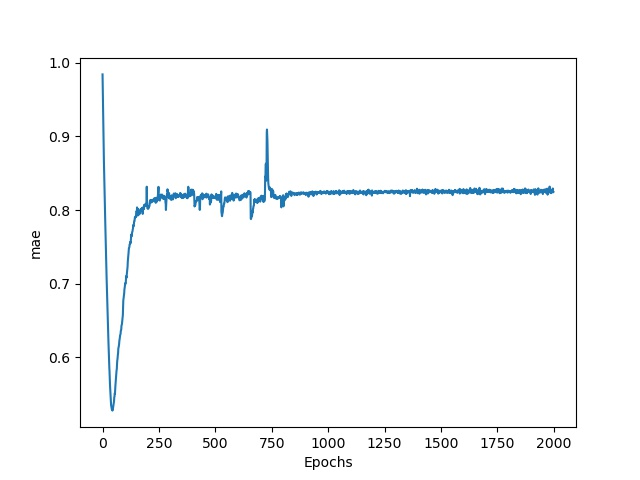
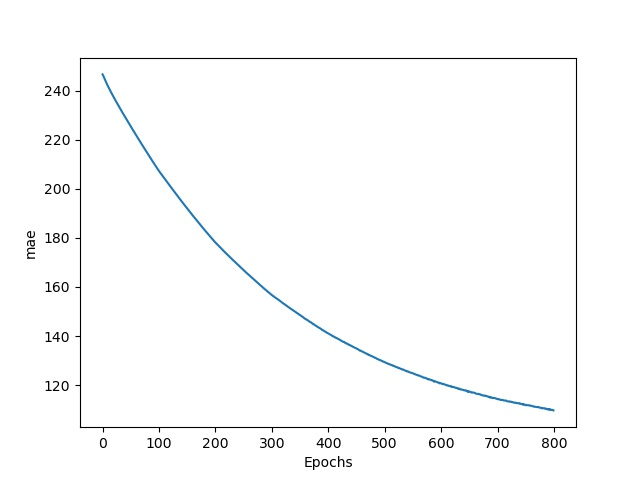
Update

diff --git a/prediction_for_lily_price_and_volume/train.py b/prediction_for_lily_price_and_volume/train.py
@@ -11,7 +11,7 @@ import matplotlib.pyplot as plt
 import os
 from sklearn.preprocessing import StandardScaler
 from torch.optim import lr_scheduler
-from sklearn.metrics import mean_absolute_percentage_error
+from sklearn.metrics import mean_absolute_percentage_error, mean_absolute_error
 
 #OMP: Error #15: Initializing libiomp5md.dll, but found libiomp5md.dll already initialized.
 os.environ["KMP_DUPLICATE_LIB_OK"]="TRUE"
@@ -23,7 +23,7 @@ if torch.cuda.is_available():
 else:
     device = torch.device('cpu')
 
-n = 10  # 取前n天的資料作為特徵
+n = 7  # 取前n天的資料作為特徵
 
 #載入資料集
 train_x = pd.read_csv(r'D:\dataset\lilium_price\train_x\105-108all.csv', encoding='utf-8')
@@ -46,19 +46,19 @@ trainset = utils.Setloader(train_x, train_y)
 valset = utils.Setloader(val_x, val_y)
 
 # train
-batch_size = 300
-val_batch_size = 300
-LR = 0.05
-num_epochs = 1000
+batch_size = 200
+val_batch_size = 200
+LR = 0.001
+num_epochs = 2000
 
 model = model.RNN_model(input_dim=train_x.shape[1], output_dim=train_y.shape[1]).to(device)
 # 選擇優化器與損失函數
 optimizer = torch.optim.AdamW(model.parameters(), lr=LR) 
 criterion = nn.MSELoss().to(device)
-scheduler = lr_scheduler.StepLR(optimizer, step_size=100, gamma=0.9)
+scheduler = lr_scheduler.StepLR(optimizer, step_size=200, gamma=0.9)
 
 trainloader = DataLoader(trainset, batch_size=batch_size, shuffle=True)
-valloader = DataLoader(valset, batch_size=val_batch_size, shuffle=None)
+valloader = DataLoader(valset, batch_size=val_batch_size, shuffle=True)
 train_epoch_size = math.ceil(len(trainloader.dataset)/batch_size)
 val_epoch_size = math.ceil(len(valloader.dataset)/val_batch_size)
 
@@ -82,7 +82,7 @@ for epoch in range(num_epochs):
             optimizer.zero_grad()  # clear gradients for this training step
             loss.backward()  # back propagation, compute gradients
             optimizer.step()
-            scheduler.step()        
+                    
             #更新進度條
             pbar.set_description('train')
             pbar.set_postfix(
@@ -102,7 +102,11 @@ for epoch in range(num_epochs):
                 inputs, target = inputs.to(device), target.to(device)
                 output = model(torch.unsqueeze(inputs, dim=0))
                 running_val_loss = criterion(torch.squeeze(output), target).item()
-                running_mae = mean_absolute_percentage_error(target.cpu(), torch.squeeze(output).cpu())
+                running_mae = mean_absolute_error(target.cpu(), torch.squeeze(output).cpu())
+                # if running_mape > 1:    #避免爆炸
+                #     print(target[70])
+                #     print(output[0][70])
+                #     running_mape = 1
                 total_val_loss += running_val_loss*inputs.shape[0]
                 total_mae += running_mae*inputs.shape[0]
                 #更新進度條
@@ -113,14 +117,15 @@ for epoch in range(num_epochs):
                             'mae': running_mae
                         })
                 pbar.update(1)
+    scheduler.step()
     val_loss = total_val_loss/len(valloader.dataset)
     mae = total_mae/len(valloader.dataset)
     val_loss_list.append(val_loss)
     mae_list.append(mae)
-    print('train_loss: {:.4f}, valid_loss: {:.4f}, mae:{:.4f}, lr:{:.1e}'.format(loss, val_loss, mae, scheduler.get_last_lr()[0]) )
+    print('train_loss: {:.4f}, valid_loss: {:.4f}, MAE:{:.2f}, lr:{:.1e}'.format(loss, val_loss, mae, scheduler.get_last_lr()[0]) )
     #每10個epochs及最後一個epoch儲存模型
-    if (not epoch % 50) or (epoch == num_epochs)  :
-        torch.save(model.state_dict(), './logs/epoch%d-loss%.4f-val_loss%.4f-mae%.4f.pth' %(epoch, loss, val_loss, mae))
+    if (not epoch % 100) or (epoch == num_epochs)  :
+        torch.save(model.state_dict(), './logs/epoch%d-loss%.4f-val_loss%.4f-mae%.2f.pth' %(epoch, loss, val_loss, mae))
 
 
 #繪製圖

diff --git a/prediction_for_lily_price_and_volume/net/model.py b/prediction_for_lily_price_and_volume/net/model.py
@@ -3,21 +3,21 @@ import torch.nn as nn
 class RNN_model(nn.Module):
     def __init__(self, input_dim, output_dim):
         super(RNN_model, self).__init__()
-        # self.dnn1 = nn.Linear(input_dim, 512)
-        # self.dnn2 = nn.Linear(512, 256)
+        self.dnn1 = nn.Linear(input_dim, 1024)
+        self.dnn2 = nn.Linear(1024, 512)
 
         self.rnn1 = nn.LSTM(
-            input_size=input_dim,
+            input_size=512,
+            hidden_size=128,
+            num_layers=2,
+            batch_first=True
+        )
+        self.rnn2 = nn.LSTM(
+            input_size=128,
             hidden_size=64,
             num_layers=2,
             batch_first=True
         )
-        # self.rnn2 = nn.LSTM(
-        #     input_size=64,
-        #     hidden_size=64,
-        #     num_layers=2,
-        #     batch_first=True
-        # )
         
         self.drop = nn.Dropout(0.5)
         self.out = nn.Sequential(
@@ -25,11 +25,10 @@ class RNN_model(nn.Module):
         )
 
     def forward(self, x):
-        # lout = self.dnn1(x)
-        # lout = self.dnn2(lout)
-        r_out, (h_n, h_c) = self.rnn1(x, None)  # None 表示 hidden state 會用全0的 state
-        # d_out = self.drop(r_out)
-        # r_out, (h_n, h_c) = self.rnn2(r_out, None)
-        d_out = self.drop(r_out)
-        out = self.out(r_out)
+        out = self.dnn1(x)
+        out = self.dnn2(out)
+        out, (h_n, h_c) = self.rnn1(out, None)  # None 表示 hidden state 會用全0的 state
+        out = self.drop(out)
+        out, (h_n, h_c) = self.rnn2(out, None)        
+        out = self.out(out)
         return out
